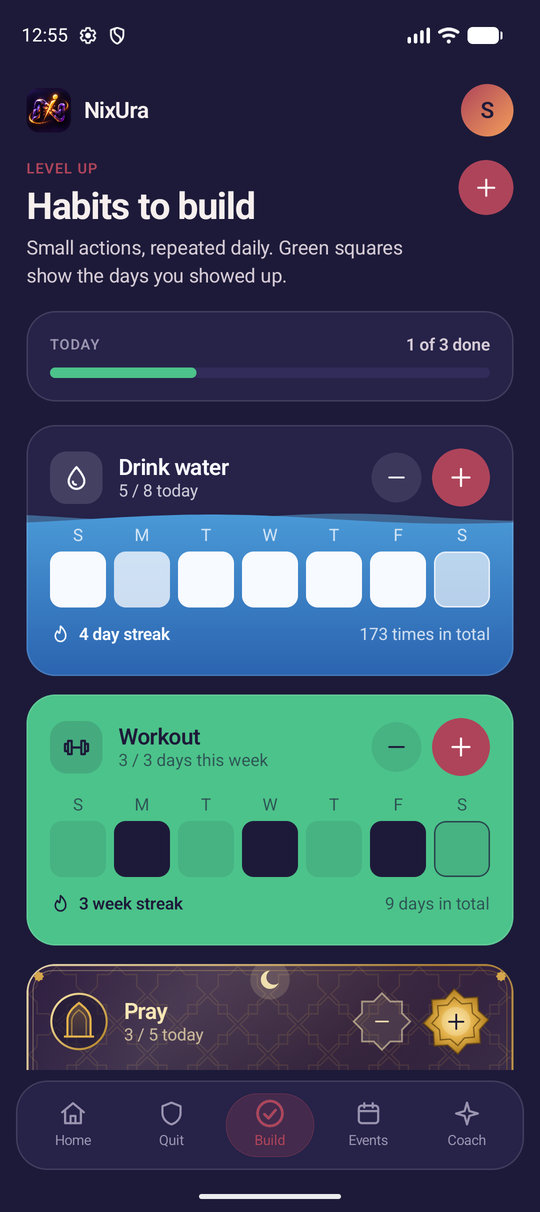
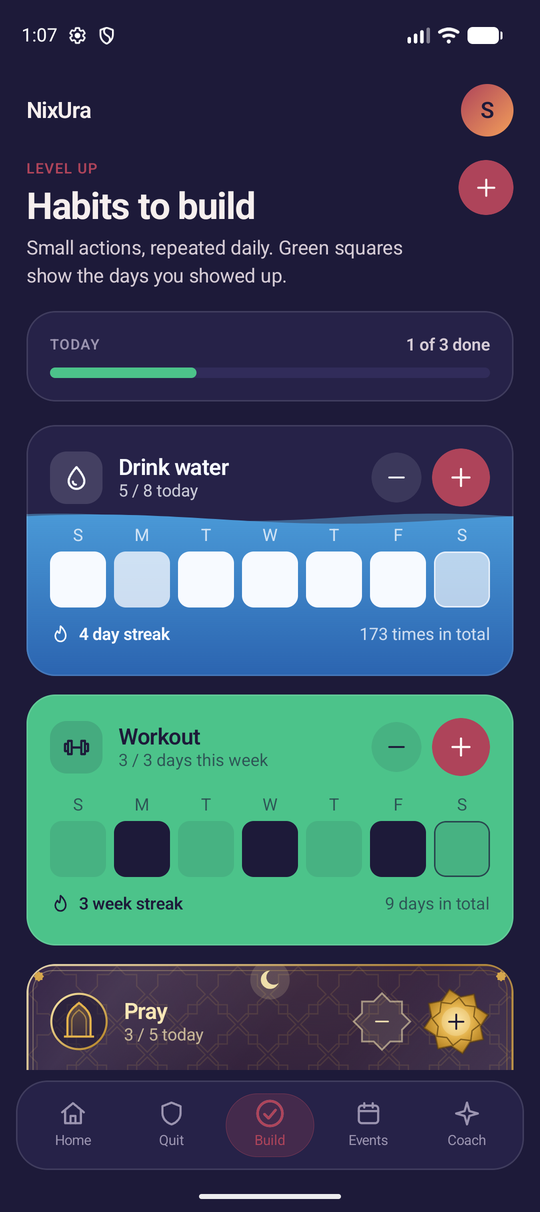
feat(branding): show only the NixUra name inside the app
Removes the logo tile from the welcome screen, sign-in, the top bar and
Settings at the owner's request; the launcher icon stays. README
screenshots retaken; docs updated.

diff --git a/shared/src/commonMain/kotlin/com/adhamelgendy/nixura/presentation/auth/AuthComponents.kt b/shared/src/commonMain/kotlin/com/adhamelgendy/nixura/presentation/auth/AuthComponents.kt
@@ -2,7 +2,6 @@ package com.adhamelgendy.nixura.presentation.auth
 
 import androidx.compose.animation.animateColorAsState
 import androidx.compose.animation.core.animateFloatAsState
-import androidx.compose.foundation.Image
 import androidx.compose.foundation.background
 import androidx.compose.foundation.border
 import androidx.compose.foundation.clickable
@@ -39,9 +38,6 @@ import androidx.compose.runtime.saveable.rememberSaveable
 import androidx.compose.runtime.setValue
 import androidx.compose.ui.Alignment
 import androidx.compose.ui.Modifier
-import com.adhamelgendy.nixura.resources.Res
-import com.adhamelgendy.nixura.resources.nixura_logo
-import org.jetbrains.compose.resources.painterResource
 import androidx.compose.ui.draw.clip
 import androidx.compose.ui.focus.FocusRequester
 import androidx.compose.ui.focus.focusRequester
@@ -117,19 +113,6 @@ fun passwordProblemText(problem: PasswordProblem, s: Strings): String = when (pr
     PasswordProblem.LowVariety -> s.pwLowVariety
 }
 
-/**
- * The NixUra logo (the app icon: a broken chain with a glowing "i") as a rounded tile. Used on the landing and account
- * screens, the top bar and Settings. Decorative: the "NixUra" name is always written next to it.
- */
-@Composable
-fun BrandMark(modifier: Modifier = Modifier, size: Dp = 56.dp) {
-    Image(
-        painter = painterResource(Res.drawable.nixura_logo),
-        contentDescription = null,
-        modifier = modifier.size(size).clip(RoundedCornerShape(size * 0.28f)),
-    )
-}
-
 /** The brand's main action: rose-to-orange gradient, a slight press-in, and a spinner while [loading]. */
 @Composable
 fun AuthGradientButton(
@@ -194,8 +177,6 @@ fun AuthScaffold(
                 if (onBack != null) NixIconButton(NixIcon.Back, onBack)
                 Spacer(Modifier.weight(1f))
                 Text("NixUra", style = NixType.Heading, color = c.textSecondary)
-                Spacer(Modifier.width(10.dp))
-                BrandMark(size = 34.dp)
             }
             Spacer(Modifier.height(30.dp))
             Text(title, style = NixType.Display, color = c.textPrimary, modifier = Modifier.riseIn(80).semantics { heading() })

diff --git a/shared/src/commonMain/kotlin/com/adhamelgendy/nixura/presentation/screen/AppShell.kt b/shared/src/commonMain/kotlin/com/adhamelgendy/nixura/presentation/screen/AppShell.kt
@@ -8,7 +8,6 @@ import androidx.compose.foundation.background
 import androidx.compose.foundation.layout.Box
 import androidx.compose.runtime.saveable.rememberSaveable
 import com.adhamelgendy.nixura.presentation.auth.AccountSheet
-import com.adhamelgendy.nixura.presentation.auth.BrandMark
 import com.adhamelgendy.nixura.presentation.auth.AuthGate
 import com.adhamelgendy.nixura.presentation.components.pressable
 import com.adhamelgendy.nixura.presentation.guide.GuideTarget
@@ -353,8 +352,6 @@ private fun TopBar(navigator: Navigator) {
         Modifier.fillMaxWidth().padding(horizontal = 20.dp, vertical = 10.dp),
         verticalAlignment = Alignment.CenterVertically,
     ) {
-        BrandMark(size = 34.dp)
-        Spacer(Modifier.width(10.dp))
         Text("NixUra", style = NixType.Heading, color = c.textPrimary)
         Spacer(Modifier.weight(1f))
         Avatar(

diff --git a/shared/src/commonMain/kotlin/com/adhamelgendy/nixura/presentation/screen/SettingsScreen.kt b/shared/src/commonMain/kotlin/com/adhamelgendy/nixura/presentation/screen/SettingsScreen.kt
@@ -1,6 +1,5 @@
 package com.adhamelgendy.nixura.presentation.screen
 
-import com.adhamelgendy.nixura.presentation.auth.BrandMark
 import androidx.compose.foundation.layout.Arrangement
 import androidx.compose.foundation.layout.Column
 import androidx.compose.foundation.layout.Row
@@ -203,8 +202,6 @@ fun SettingsScreen(navigator: Navigator) {
         }
         NixCard {
             Row(verticalAlignment = Alignment.CenterVertically) {
-                BrandMark(size = 28.dp)
-                Spacer(Modifier.width(12.dp))
                 Column(Modifier.weight(1f)) {
                     Text("NixUra", style = NixType.BodyStrong, color = c.textPrimary)
                     Text(s.versionLabel, style = NixType.Small, color = c.textMuted)

diff --git a/shared/src/commonMain/kotlin/com/adhamelgendy/nixura/presentation/auth/LandingScreen.kt b/shared/src/commonMain/kotlin/com/adhamelgendy/nixura/presentation/auth/LandingScreen.kt
@@ -56,8 +56,6 @@ fun LandingScreen(navigator: Navigator, onGuest: (() -> Unit)?) {
             horizontalAlignment = Alignment.CenterHorizontally,
         ) {
             Spacer(Modifier.weight(1f))
-            BrandMark(Modifier.riseIn(0), size = 72.dp)
-            Spacer(Modifier.height(24.dp))
             Text(
                 "NixUra",
                 style = TextStyle(fontSize = 58.sp, lineHeight = 64.sp, fontWeight = FontWeight.ExtraBold, letterSpacing = (-1.8).sp, brush = titleBrush),

diff --git a/README.md b/README.md
@@ -76,7 +76,7 @@ All screenshots are from the Android app running on a Pixel 9 emulator, with dem
 | Google Calendar and Notion import | Google works on the owner's Android phone (2026-11-04): Events, Birthdays, Tasks and Holidays for the user's country, each with its own category. Notion connects through a Cloudflare Worker (`workers/notion`); the owner linked a real Notion workspace from the phone on 2026-11-11 (see [Linking calendars](#linking-calendars-google-calendar-and-notion)). Google Calendar on iOS is not built yet. |
 | AI coach | **Real AI coach built (2026-11-11), with voice notes and animated progress cards.** Signed-in users who agree get AI replies through NixUra's Worker, which tries five free AI services in order and falls back to the offline coach; 10 messages and 2 voice notes a day. AI chat and voice notes worked on the owner's phone (2026-11-11), answered by Gemini, with Groq and Cloudflare as working fallbacks. See [AI coach and voice notes](#ai-coach-and-voice-notes). |
 | Android home-screen widgets (quit counter, good-habit quick log, events) | **Logic confirmed on a device by the owner** (numbers, live clock, "+"/"-", choosing a habit/event). The **card-style redesign** (widgets mirror the in-app cards, size-aware layouts) and the **"Add to Home screen" buttons** were **seen working on the Pixel 9 emulator on 2026-11-14** (quit counter and quick log placed with "Add to Home screen", events widget from the launcher's picker; see the Home-screen widgets screenshot) but **not yet run on a phone**. 90 pure-logic tests (planner, state mapping, quick-log use cases) compiled with plain `kotlinc` outside Gradle and **passed**. iOS widgets are **not implemented** (planned; need macOS, WidgetKit and an App Group). |
-| App icon | **Official NixUra icon** (the broken chain with the glowing "i", owner's artwork, 2026-11-14): Android adaptive icon (`mipmap-*/ic_launcher_foreground.png` on `@color/ic_launcher_background`), legacy square and round icons for Android 7, a 512 px Play Store icon (`androidApp/src/main/ic_launcher-playstore.png`) and the iOS 1024 px `AppIcon`. Seen in the emulator's app drawer and splash screen and installed on the owner's phone; iOS not built yet. The same logo replaces the old leaf tile inside the app (welcome, sign-in, top bar, Settings), from the Compose resource `shared/src/commonMain/composeResources/drawable/nixura_logo.png`. |
+| App icon | **Official NixUra icon** (the broken chain with the glowing "i", owner's artwork, 2026-11-14): Android adaptive icon (`mipmap-*/ic_launcher_foreground.png` on `@color/ic_launcher_background`), legacy square and round icons for Android 7, a 512 px Play Store icon (`androidApp/src/main/ic_launcher-playstore.png`) and the iOS 1024 px `AppIcon`. Seen in the emulator's app drawer and splash screen and installed on the owner's phone; iOS not built yet. Inside the app there is no logo tile any more: welcome, sign-in, the top bar and Settings show only the name "NixUra". |
 | iOS | **Approved target, not yet built or run.** Shared UI/logic is written for it (Compose host in `iosApp`, `iosMain` actuals). Reminders are a no-op placeholder until a `UNUserNotificationCenter` implementation is added. Needs macOS + Xcode to verify. |
 
 > **Naming:** the app is **NixUra** everywhere: launcher label, Gradle project, iOS app name, docs. The app id is `com.adhamelgendy.nixura` (Android `applicationId`, Kotlin packages, iOS bundle id). It replaced the placeholder `com.example.reclaimapp` on 2026-11-05; an install of the old id is a different app to the phone, so uninstall it. The id must never change after publishing to a store.
@@ -150,7 +150,6 @@ Semantic tokens (dark/light) are in `presentation/theme/NixColors.kt`. UI was ad
 | Credential Manager / Google ID (Google sign-in) | 1.6.0 / 1.2.1 |
 | Facebook Login | 19.0.1 |
 | Material icons core (`org.jetbrains.compose.material:material-icons-core`, used for the settings gear) | 1.7.3 |
-| Compose Multiplatform resources (`components-resources`, the in-app logo; accessors in `com.adhamelgendy.nixura.resources`) | 1.12.1 |
 | minSdk / compileSdk | 24 / 37 |
 | Notion Worker (`workers/notion`): Wrangler / jose / TypeScript, on Cloudflare Workers + D1 | 4.150.0 / 5.9.6 / 5.6.3 |
 

diff --git a/docs/DEVELOPMENT_STATUS.md b/docs/DEVELOPMENT_STATUS.md
@@ -28,8 +28,8 @@
   - **Fixed: stale coach greeting.** A chat's greeting was written once, when the chat was created (often at start-up, before any habits or a name), so the welcome card still said "Hi there. Add a habit you want to leave behind" with three quit habits. Now `EnsureCoachGreetingUseCase` rewrites the greeting every time a chat the user has not written in yet is opened (`CoachRepository.refreshGreeting`, DAO `refreshUnusedGreeting`, which never touches a chat with a user message). Seen on the emulator: "Hi Sam. Add a habit..." became "Hi Sam. You're 3 days clear on Smoking." after adding a habit.
   - **Not an app bug: doubled first letter.** "SSam" in the starter guide's name field did not happen again in two tries (typing right after the tap and after the keyboard was up); it came from the emulator's first keyboard start with `adb shell input text`.
   - **Not a bug: prayer form height.** The gold wash fills the whole screen (mosque at the bottom) once its animation ends; the earlier screenshot was taken mid-animation.
-- **In-app logo:** the leaf tile (`BrandMark`) is replaced by the new logo everywhere it stood for the brand: welcome screen, sign-in and account forms, the top bar and Settings > About. The image is a Compose Multiplatform resource (`shared/src/commonMain/composeResources/drawable/nixura_logo.png`, accessor package `com.adhamelgendy.nixura.resources`, set in `shared/build.gradle.kts`), so iOS uses the same file. The leaf stays as the Profile row icon in the account sheet and as the fallback glyph for unknown build habits. README screenshots retaken with the new logo.
-- **Verified (follow-up):** `:androidApp:assembleDebug` builds; `:shared:testAndroidHostTest` **465 tests, 0 failures**; `tools/room_migration_check.py` validates 83 DAO queries including the new one (its two "SQL ERROR" lines on the events `REMOVED_BY_IMPORT_SQL` queries were already there before this change: the checker cannot substitute that Kotlin constant). Installed on the owner's phone over the existing install (Room v7, data kept); the Home screen shows the new logo. iOS not compiled (no Mac).
+- **In-app brand mark removed (owner decision 2026-11-14):** the leaf tile was first swapped for the new logo, then, at the owner's request, removed altogether. The welcome screen, sign-in and account forms, the top bar and Settings > About now show only the name "NixUra". `BrandMark`, its image resource and the `compose.resources` block in `shared/build.gradle.kts` are gone. The launcher icon is unchanged. The leaf stays as the Profile row icon in the account sheet and as the fallback glyph for unknown build habits. README screenshots retaken.
+- **Verified (follow-up):** `:androidApp:assembleDebug` builds; `:shared:testAndroidHostTest` **465 tests, 0 failures**; `tools/room_migration_check.py` validates 83 DAO queries including the new one (its two "SQL ERROR" lines on the events `REMOVED_BY_IMPORT_SQL` queries were already there before this change: the checker cannot substitute that Kotlin constant). Installed on the owner's phone over the existing install (Room v7, data kept). After the brand mark was removed: build passes, 465 tests pass, seen on the emulator (welcome, sign-in, top bar, Settings show the name only) and installed on the owner's phone again (top bar shows "NixUra" alone). iOS not compiled (no Mac).
 
 ## Prayer habit card (2026-11-12, branch `claude/islamic-prayer-habit-card-eff051`)
 

diff --git a/docs/PROJECT_CONTEXT.md b/docs/PROJECT_CONTEXT.md
@@ -40,7 +40,7 @@ Users need persistent, honest progress (not a fragile timer), relapse support wi
 | Orange | `#F39F5A` |
 | Blush | `#E8BCB9` |
 
-**App icon (owner decision 2026-11-14):** the official icon is the owner's artwork of a purple chain broken by a glowing gold "i" on a dark purple square. Android uses it as an adaptive icon (artwork in `mipmap-*/ic_launcher_foreground.png`, backdrop `@color/ic_launcher_background` `#110721`), plus legacy square/round PNGs and a 512 px Play Store icon (`androidApp/src/main/ic_launcher-playstore.png`); iOS uses `AppIcon.appiconset/app-icon-1024.png`. The in-app brand mark (`BrandMark`: welcome screen, sign-in, top bar, Settings > About) shows the same logo from the Compose resource `composeResources/drawable/nixura_logo.png` (shared by Android and iOS). README screenshots live in `docs/screenshots/`, the README icon and hero banner in `docs/assets/`.
+**App icon (owner decision 2026-11-14):** the official icon is the owner's artwork of a purple chain broken by a glowing gold "i" on a dark purple square. Android uses it as an adaptive icon (artwork in `mipmap-*/ic_launcher_foreground.png`, backdrop `@color/ic_launcher_background` `#110721`), plus legacy square/round PNGs and a 512 px Play Store icon (`androidApp/src/main/ic_launcher-playstore.png`); iOS uses `AppIcon.appiconset/app-icon-1024.png`. Inside the app there is no logo tile: the welcome screen, sign-in, the top bar and Settings > About show only the name "NixUra" (owner decision 2026-11-14). README screenshots live in `docs/screenshots/`, the README icon and hero banner in `docs/assets/`.
 
 Premium, warm, hierarchical; not minimal-empty; not cluttered. Semantic tokens for surfaces, actions, text, states. Error color exception documented in theme (not from palette).
 
